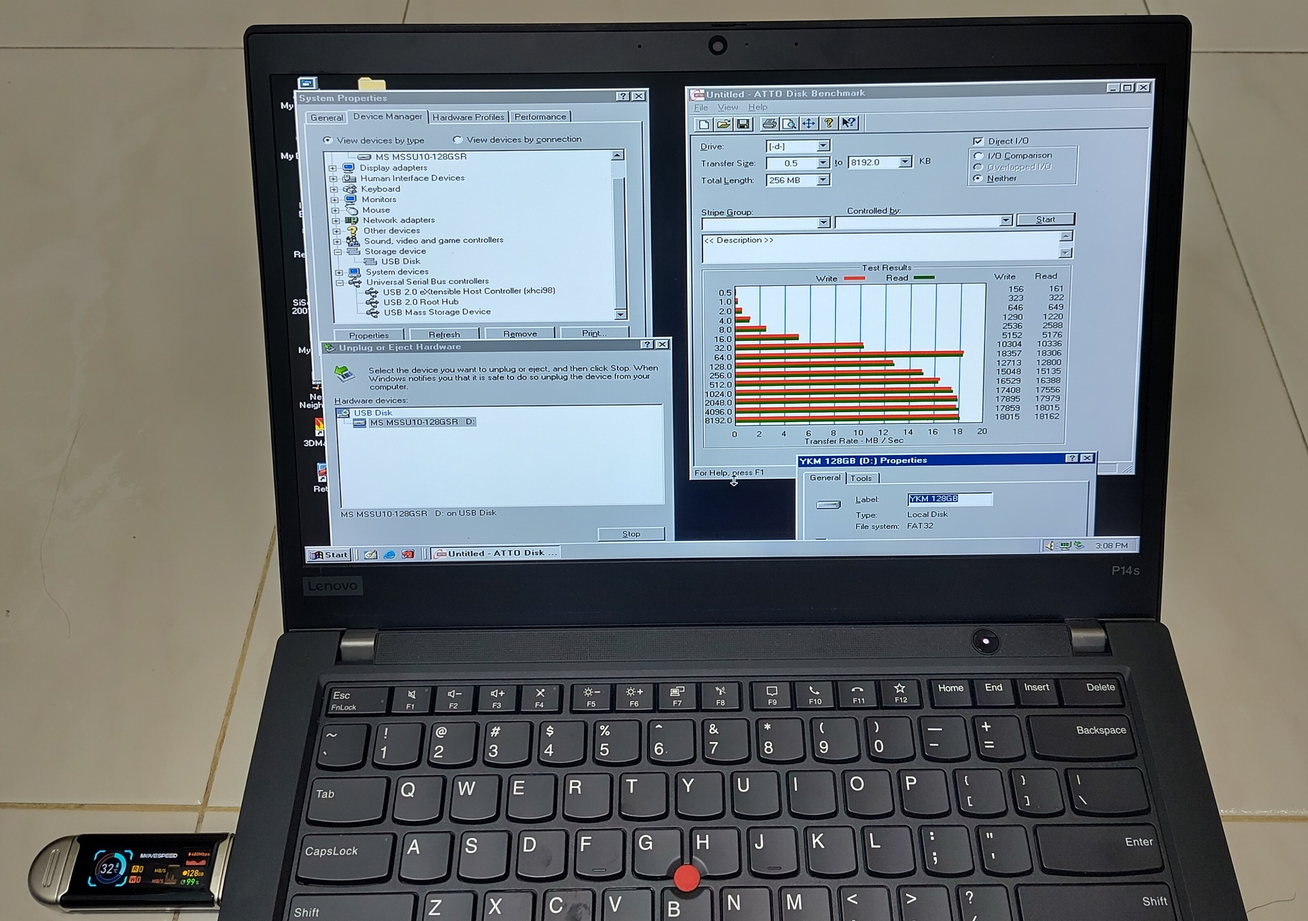
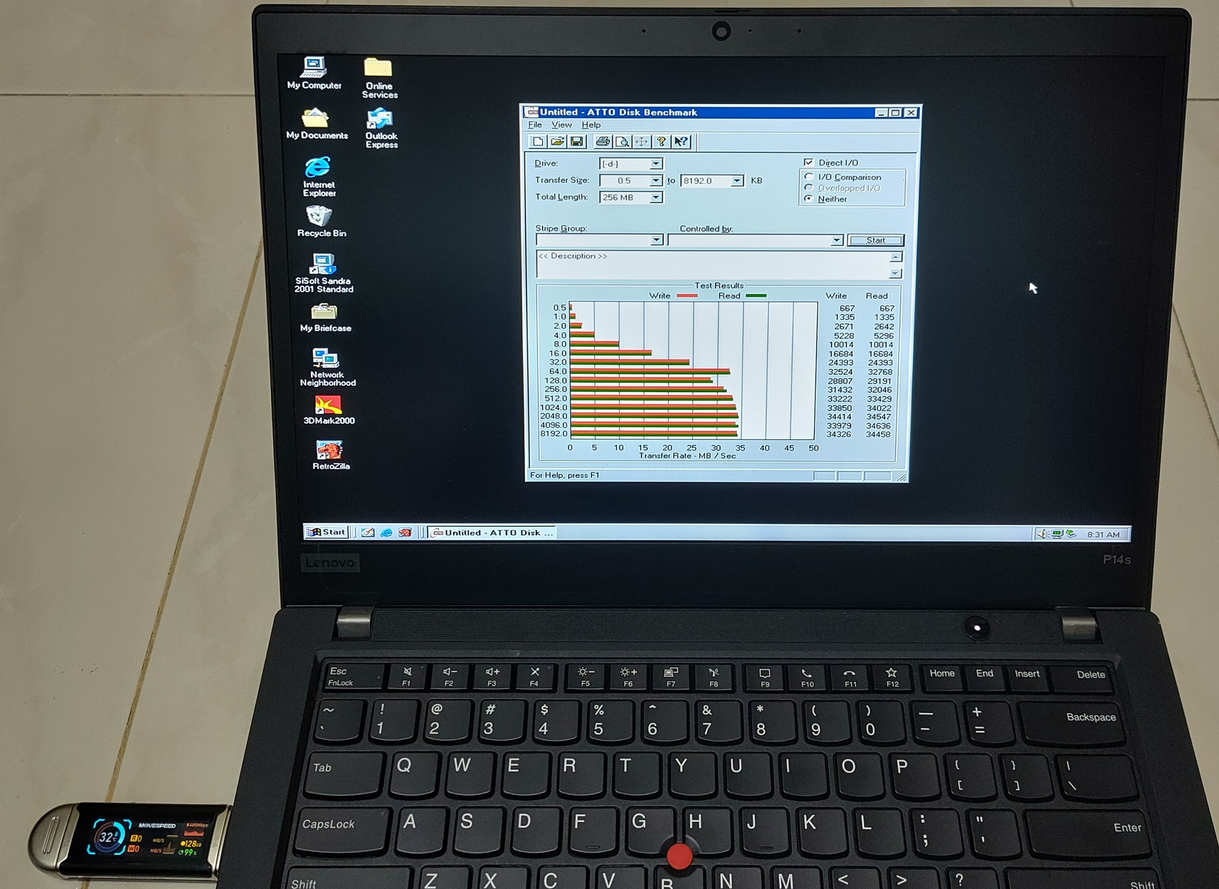
update transfer speed

diff --git a/2026/08/xhci98-usb-host-driver/index.html b/2026/08/xhci98-usb-host-driver/index.html
@@ -16,12 +16,11 @@ Everything is open-sourced here if you want to jump right in to use it: https://
 All text below have been written and phrased by me and not AI. Only the diagrams and tables are AI created.
 Demos Video from a retrocomputing Youtuber Omores showcasing my project.
 My earlier demo video showing hotplugging many different types of USB devices to my 2020 ThinkPad P14s Gen 1. Hotplugging shows that the driver is handling this and not the BIOS.
-ATTO Disk Benchmark on a USB 3.0 flash drive tops up around 18 MB/s.
-That is within USB 2.0 High-Speed which is all this driver supports and I’ll explain why in the next section.
-It’s a bit on the low-side even for USB 2.0 but I made things more conservative to mitigate issues for a start.">
+ATTO Disk Benchmark on a USB 3.0 flash drive goes around 34 MB/s which is near the practical limit of USB 2.0 transfers.
+That is within USB 2.0 High-Speed which is all this driver supports and I’ll explain why in the next section.">
 	<meta itemprop="datePublished" content="2026-08-30T00:00:00+00:00">
 	<meta itemprop="dateModified" content="2026-08-30T00:00:00+00:00">
-	<meta itemprop="wordCount" content="2443">
+	<meta itemprop="wordCount" content="2430">
 	<meta itemprop="image" content="http://yeokhengmeng.com/2026/08/xhci98-usb-host-driver/images/xhci98-usb-devices.jpg">
 	<meta itemprop="keywords" content="Retrocomputing,Hacks"><meta property="og:url" content="http://yeokhengmeng.com/2026/08/xhci98-usb-host-driver/">
 	<meta property="og:site_name" content="YKM&#39;s Corner on the Web">
@@ -34,9 +33,8 @@ Everything is open-sourced here if you want to jump right in to use it: https://
 All text below have been written and phrased by me and not AI. Only the diagrams and tables are AI created.
 Demos Video from a retrocomputing Youtuber Omores showcasing my project.
 My earlier demo video showing hotplugging many different types of USB devices to my 2020 ThinkPad P14s Gen 1. Hotplugging shows that the driver is handling this and not the BIOS.
-ATTO Disk Benchmark on a USB 3.0 flash drive tops up around 18 MB/s.
-That is within USB 2.0 High-Speed which is all this driver supports and I’ll explain why in the next section.
-It’s a bit on the low-side even for USB 2.0 but I made things more conservative to mitigate issues for a start.">
+ATTO Disk Benchmark on a USB 3.0 flash drive goes around 34 MB/s which is near the practical limit of USB 2.0 transfers.
+That is within USB 2.0 High-Speed which is all this driver supports and I’ll explain why in the next section.">
 	<meta property="og:locale" content="en">
 	<meta property="og:type" content="article">
 		<meta property="article:section" content="post">
@@ -55,9 +53,8 @@ Everything is open-sourced here if you want to jump right in to use it: https://
 All text below have been written and phrased by me and not AI. Only the diagrams and tables are AI created.
 Demos Video from a retrocomputing Youtuber Omores showcasing my project.
 My earlier demo video showing hotplugging many different types of USB devices to my 2020 ThinkPad P14s Gen 1. Hotplugging shows that the driver is handling this and not the BIOS.
-ATTO Disk Benchmark on a USB 3.0 flash drive tops up around 18 MB/s.
-That is within USB 2.0 High-Speed which is all this driver supports and I’ll explain why in the next section.
-It’s a bit on the low-side even for USB 2.0 but I made things more conservative to mitigate issues for a start.">
+ATTO Disk Benchmark on a USB 3.0 flash drive goes around 34 MB/s which is near the practical limit of USB 2.0 transfers.
+That is within USB 2.0 High-Speed which is all this driver supports and I’ll explain why in the next section.">
 			<meta name="twitter:site" content="@yeokm1">
 <link rel="stylesheet" href="/css/bundle.min.34a0b510084f27f411c97ef8a8d4a289c2b5fe284fe77e3ecf55351c22f38908.css" integrity="sha256-NKC1EAhPJ/QRyX74qNSiicK1/ihP534&#43;z1U1HCLziQg=">
         <link rel="stylesheet" href="/css/add-on.css"></head>
@@ -327,9 +324,8 @@ It’s a bit on the low-side even for USB 2.0 but I made things more conservativ
 
 <p>My earlier demo video showing hotplugging many different types of USB devices to my 2020 ThinkPad P14s Gen 1. Hotplugging shows that the driver is handling this and not the BIOS.</p>
 <a href="images/xhci98-flash-speed-test.jpg"><img src="images/xhci98-flash-speed-test.jpg" width="800"></a>
-<p>ATTO Disk Benchmark on a USB 3.0 flash drive tops up around 18 MB/s.</p>
+<p>ATTO Disk Benchmark on a USB 3.0 flash drive goes around 34 MB/s which is near the practical limit of USB 2.0 transfers.</p>
 <p>That is within USB 2.0 High-Speed which is all this driver supports and I&rsquo;ll explain why in the next section.</p>
-<p>It&rsquo;s a bit on the low-side even for USB 2.0 but I made things more conservative to mitigate issues for a start.</p>
 <h2 id="background">Background</h2>
 <p>The USB host controller on most modern PCs today is based on the <a href="https://en.wikipedia.org/wiki/Extensible_Host_Controller_Interface">Extensible Host Controller Interface (xHCI)</a> USB 3.0 standard. It was first publicly finalised by Intel in 2010 and is now the de facto standard superseding prior USB host standards. Updates to the standard have been provided over the years with the latest now at <a href="https://cdrdv2.intel.com/v1/dl/getContent/868295">1.2c</a>.</p>
 <p>Given its relatively recent introduction, only modern operating systems like Windows 8 onwards natively support it. Supporting older machines will require the chipset vendors to provide the driver stack which is the case back to Windows XP. What if we want to go back further?</p>
@@ -549,7 +545,7 @@ It’s a bit on the low-side even for USB 2.0 but I made things more conservativ
 <li>Isochronous and USB audio</li>
 <li>Automated VM device matrix</li>
 <li>Power, packaging and stress</li>
-<li>Host- and guest-side decisions</li>
+<li>Host and guest-side decisions</li>
 <li>Final bare-metal validation</li>
 <li>The 1.0.0.0 release</li>
 <li>Specification revision 1.2c</li>
